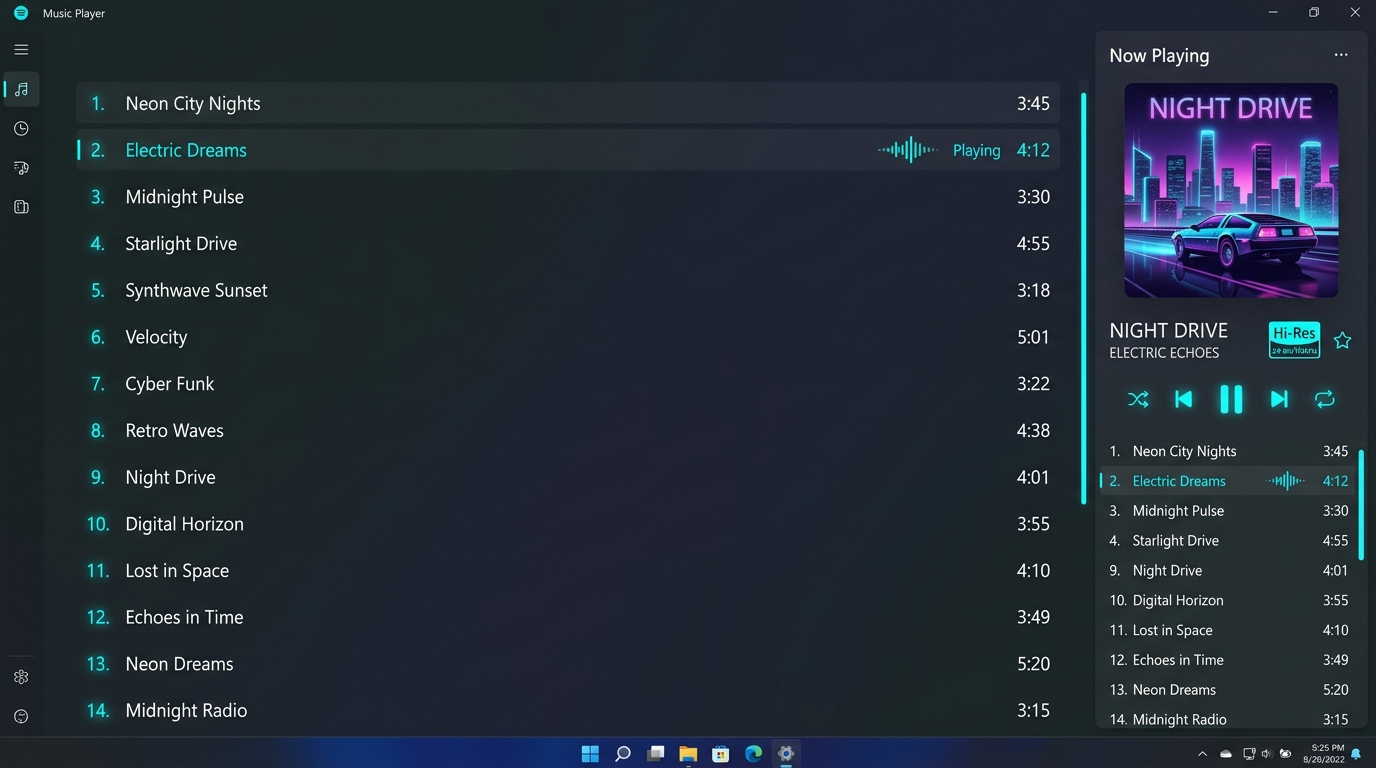
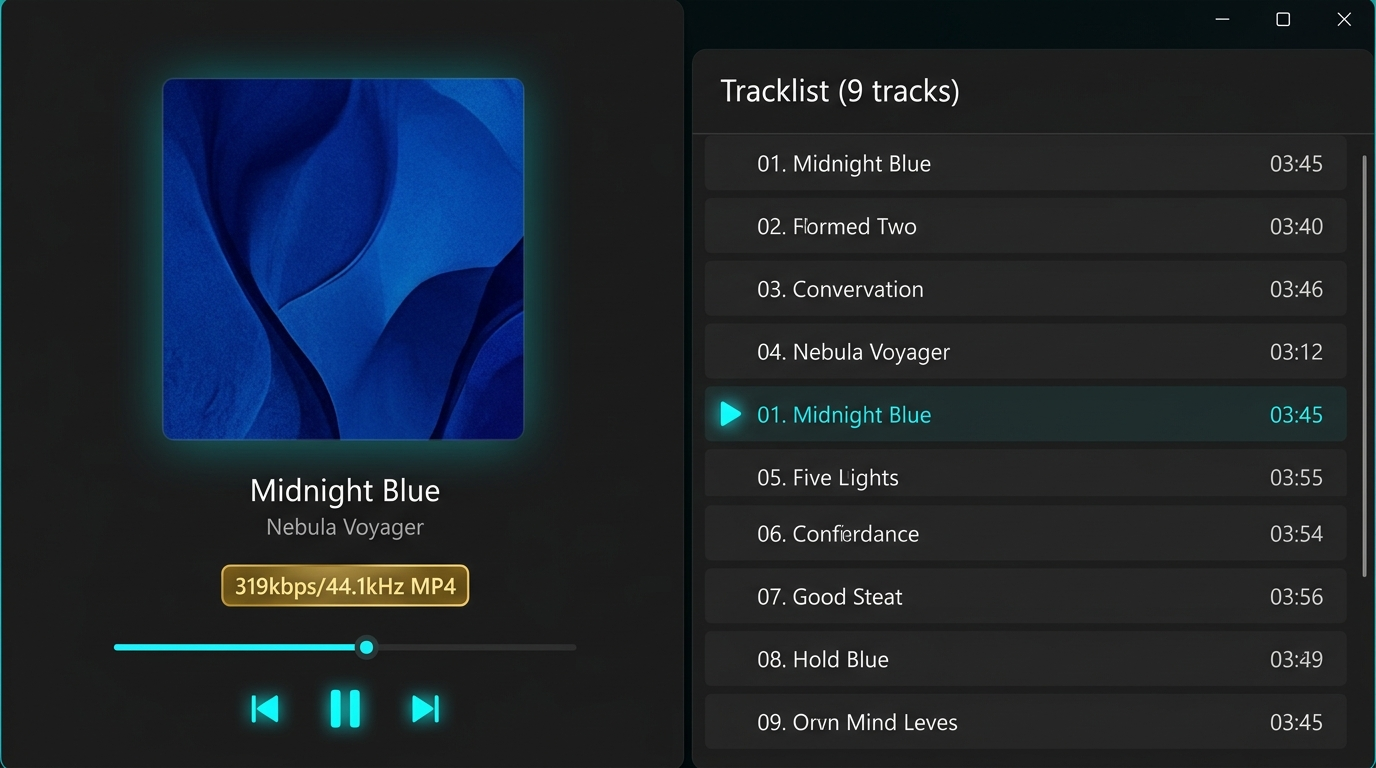
docs: 📝 #122 最大化時の詳細要素（左右分割構成・トラック数・再生状態アイコン等）を仕様書に追記

diff --git a/設計/機能仕様/右側アルバム情報表示サイズ切り替え機能.md b/設計/機能仕様/右側アルバム情報表示サイズ切り替え機能.md
@@ -4,6 +4,8 @@
 「右側アルバム情報表示サイズ切り替え機能」は、メイン画面の右側パネルに表示されているアルバム情報・プレイヤー領域の表示サイズを、ユーザーの好みに応じてワンクリックで切り替える機能です。
 ユーザーは「通常表示」「最大化表示（全画面）」「最小化表示（コンパクト）」の3段階を切り替えることで、収録曲リストをじっくり確認したい時や、下半分の拡張タブ（今後追加されるリスニング統計やタグ管理など）を広く使いたい時など、用途に応じた最適なレイアウトで快適に音楽鑑賞・管理を行えます。
 
+---
+
 ## 2. ユーザー向け提供機能
 
 ### 2.1. 3段階の表示モード切り替え
@@ -13,23 +15,49 @@
   - 右側パネルの上半分にアルバム情報（ジャケット画像、タイトル、アーティスト名、品質情報、収録曲リスト、プレイヤーコントロール）を表示し、下半分に拡張情報タブ領域を表示します。
   - 基本的なアルバム情報の閲覧と、下部の拡張機能の利用をバランスよく両立した標準レイアウトです。
 - **最大化表示（全画面）**
-  - 右側パネルの縦幅全体をアルバム情報の表示に使用します。
-  - 下半分の拡張タブ領域を非表示（折りたたみ）にし、収録曲リスト（トラックリスト）の表示領域を縦いっぱいに広げます。曲数の多いアルバムでも一覧性が大幅に向上し、スムーズに選曲・確認が可能です。
+  - 右側パネルの縦幅全体をアルバム情報・プレイヤー領域として使用します（下半分の拡張タブ領域は非表示・折りたたみ）。
+  - パネル内は**左右2カラム構成**となり、左側に特大のアルバムアートと操作系、右側に縦いっぱいのトラックリストを展開します。
 - **最小化表示（コンパクト）**
   - 収録曲リストを非表示にし、アルバムアート、曲名・アーティスト名、音質情報（ハイレゾバッジ、ビットレート/サンプリング周波数等）、および基本的な再生コントロールのみを表示します。
   - プレイヤーとしての最小限の情報を維持したまま高さを極小化し、下半分の拡張タブ領域を最大化して広々と利用できるようにします。
 
-### 2.2. 直感的なサイズ切り替えコントロール
+---
+
+### 2.2. 最大化表示時の構成要素
+最大化表示時は、画面の広さを活かして以下の要素を左右に効率よく配置します。
+
+#### ① 左側領域（アートワーク・基本情報・操作系）
+- **特大アルバムアート**: 正方形アスペクト比を維持した大迫力のジャケット画像。
+- **アルバム名称・アーティスト名称**: 視認性の高いタイポグラフィで表示。
+- **音質・フォーマット詳細情報**: ビットレート、サンプリングレート、フォーマット（MP4, FLAC等）、Hi-Resバッジ等の詳細スペック。
+- **プレイヤーコントロール**: シークバー、再生/一時停止、前へ/次へ、シャッフル、リピートなどの楽曲操作コントロール。
+
+#### ② 右側領域（トラックリスト・ステータス）
+- **アルバム総トラック数表示**: アルバム内に収録されている全曲数を明記（例: `Tracklist (9 tracks)`）。
+- **フルハイトトラックリスト**: 縦スクロール対応で全曲を一望できる一覧。
+  - **曲番号**: 2桁ゼロ埋め表記（例: `01.`）。
+  - **曲名**: トラックのタイトル。
+  - **再生時間**: 曲の長さ（例: `03:45`）。
+  - **再生ステータス表示**:
+    - 再生中: 再生中を示すアイコン（`▶` / イコライザー波形）をアクセントカラー（シアン）で点灯表示。
+    - 一時停止中: 停止中を示すアイコン（`⏸`）を表示。
+
+---
+
+### 2.3. 直感的なサイズ切り替えコントロール
 - 右側パネルのヘッダー部（またはコントローラー部）に、現在の状態に応じた切り替えボタン（最大化・最小化・元に戻すアイコン）が配置され、ワンクリックで目的のサイズへスムーズに切り替えることができます。
 - 切り替え時はレイアウトがスムーズに伸縮し、視覚的に違和感のない遷移を実現します。
+
+---
 
 ## 3. 利用手順（想定ワークフロー）
 
 ### 3.1. 収録曲リストを広く見たい場合（最大化）
 1. 右側パネルが開いている状態で、アルバム情報エリアの「最大化」ボタンをクリックします。
-2. 下半分の領域が折りたたまれ、右側パネル全体にアルバム情報とトラックリストが広がります。
-3. 長いトラックリストを一目で確認し、聴きたい曲を素早く選曲・再生します。
-4. 元のレイアウトに戻したい場合は、「元に戻す（通常表示）」ボタンをクリックします。
+2. 下半分の領域が折りたたまれ、右側パネル全体に左右2カラムの最大化レイアウトが広がります。
+3. 左側の大きなアルバムアートを見ながら、右側のトラックリストで全曲数や各曲の再生時間を確認し、聴きたい曲を選曲します。
+4. 再生中の曲には再生アイコン（`▶`）が表示され、現在の再生位置が一目で分かります。
+5. 元のレイアウトに戻したい場合は、「元に戻す（通常表示）」ボタンをクリックします。
 
 ### 3.2. 下側の拡張情報（統計・タグなど）を広く使いたい場合（最小化）
 1. 右側パネルが開いている状態で、アルバム情報エリアの「最小化」ボタンをクリックします。

diff --git a/設計/画面設計/右側アルバム情報表示サイズ切り替え機能/右側アルバム情報表示サイズ切り替え機能UI仕様書.md b/設計/画面設計/右側アルバム情報表示サイズ切り替え機能/右側アルバム情報表示サイズ切り替え機能UI仕様書.md
@@ -9,7 +9,7 @@
 ## 2. 実装イメージ（モックアップ）
 
 ### 2.1. 最大化表示（全画面モード）
-下半分の拡張タブ領域を折りたたみ、右側パネル全体にアルバム情報およびトラックリストを展開した状態です。
+下半分の拡張タブ領域を折りたたみ、右側パネル全体に左右2カラム構成でアルバム情報およびトラックリストを展開した状態です。
 
 ![最大化表示イメージ](images/album_fullscreen.jpg)
 
@@ -27,10 +27,40 @@
 | 表示モード | 構成要素 | 上部プレイヤー領域 | 下部拡張タブ領域 |
 | :--- | :--- | :--- | :--- |
 | **通常表示（デフォルト）** | アルバムアート、タイトル、音質情報、トラックリスト、再生コントロール | 高さ 50% (`1*`) | 高さ 50% (`1*`)（表示） |
-| **最大化表示（全画面）** | **【左カラム】特大アルバムアート**<br>**【右カラム】タイトル・音質情報・フルハイトトラックリスト**<br>**【下部】プレイヤーコントロールバー** | 高さ 100% (`1*`) | 高さ 0% (`0*` / 非表示) |
+| **最大化表示（全画面）** | **【左カラム】特大アート・アルバム情報・操作系**<br>**【右カラム】Track数・曲番号・曲名・再生時間・ステータス** | 高さ 100% (`1*`) | 高さ 0% (`0*` / 非表示) |
 | **最小化表示（コンパクト）** | 小型アルバムアート、タイトル、音質情報、再生コントロール（**トラックリスト非表示**） | 高さ 固定最小値 (`Auto`) | 残り全領域 (`1*` / 最大化) |
 
-### 3.2. モード切替ボタンスタイル
+---
+
+### 3.2. 最大化表示時の詳細レイアウト構成
+
+#### ① 左カラム（アートワーク・基本情報・楽曲操作）
+*   **アルバムアート**:
+    *   正方形アスペクト比を維持し、左カラムの幅いっぱいに大きく配置（角丸 `CornerRadius="8"`, ドロップシャドウ付与）。
+*   **アルバム情報テキスト**:
+    *   アルバム名称（フォントサイズ 18〜20pt, SemiBold, テキストトリミング対応）
+    *   アーティスト名称（フォントサイズ 13〜14pt, Muted Color）
+*   **音質・フォーマット詳細**:
+    *   ゴールドまたはシアンの角丸バッジでビットレート・サンプリング周波数・コーデックを表示（例: `319kbps/44.1kHz MP4`、`Hi-Res 24bit/96kHz FLAC`）。
+*   **プレイヤーコントロール**:
+    *   シークバー（ネオンスタイル、シアンのプログレスバーと現在時間/総時間表示）
+    *   操作ボタン群（シャッフル、前へ、再生/一時停止、次へ、リピート、お気に入り、プレイリスト追加）
+
+#### ② 右カラム（トラックリスト・ステータス）
+*   **トラックリストヘッダー**:
+    *   アルバムの総曲数を明記（例: `Tracklist (9 tracks)`、フォントサイズ 16pt, SemiBold）。
+*   **トラック行（ListBoxItem / DataTemplate）**:
+    *   **曲番号**: `01.`, `02.` 形式の2桁ゼロ埋め表示（固定幅、Muted Color）。
+    *   **曲名**: トラックタイトル（左揃え、可変幅、ホバー時にハイライト）。
+    *   **再生時間**: `03:45` 形式の曲長表示（右揃え）。
+    *   **再生ステータスアイコン**:
+        *   **再生中**: 行の先頭（または曲番号の左）にシアン色に発光する再生三角アイコン（`▶` または波形アニメーション）を表示。
+        *   **一時停止中**: 一時停止アイコン（`⏸`）を表示。
+        *   **非再生時**: アイコンは非表示（またはホバー時のみ薄く再生ボタンを表示）。
+
+---
+
+### 3.3. モード切替ボタンスタイル
 - **配置位置**: アルバムヘッダー上部（曲名・アーティスト名の右側、またはプレイヤーコントロール付近）
 - **アイコン構成**:
   - 通常時 → 最大化ボタン（`⛶` / 拡張アイコン）および 最小化ボタン（`—` / 折りたたみアイコン）
